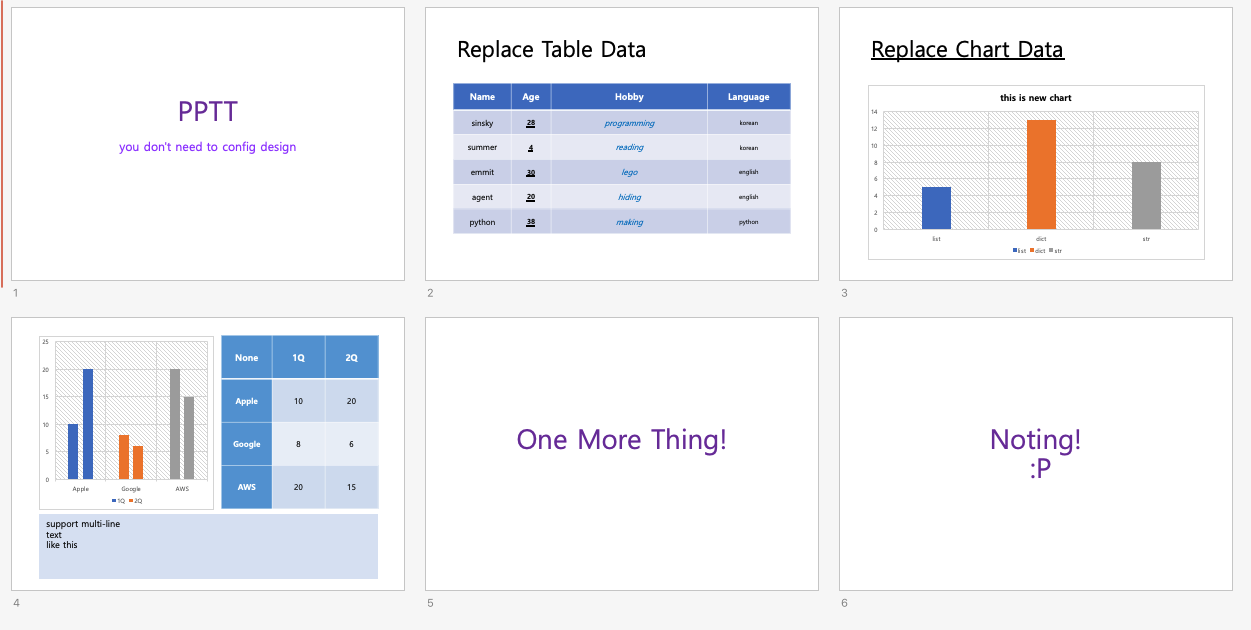
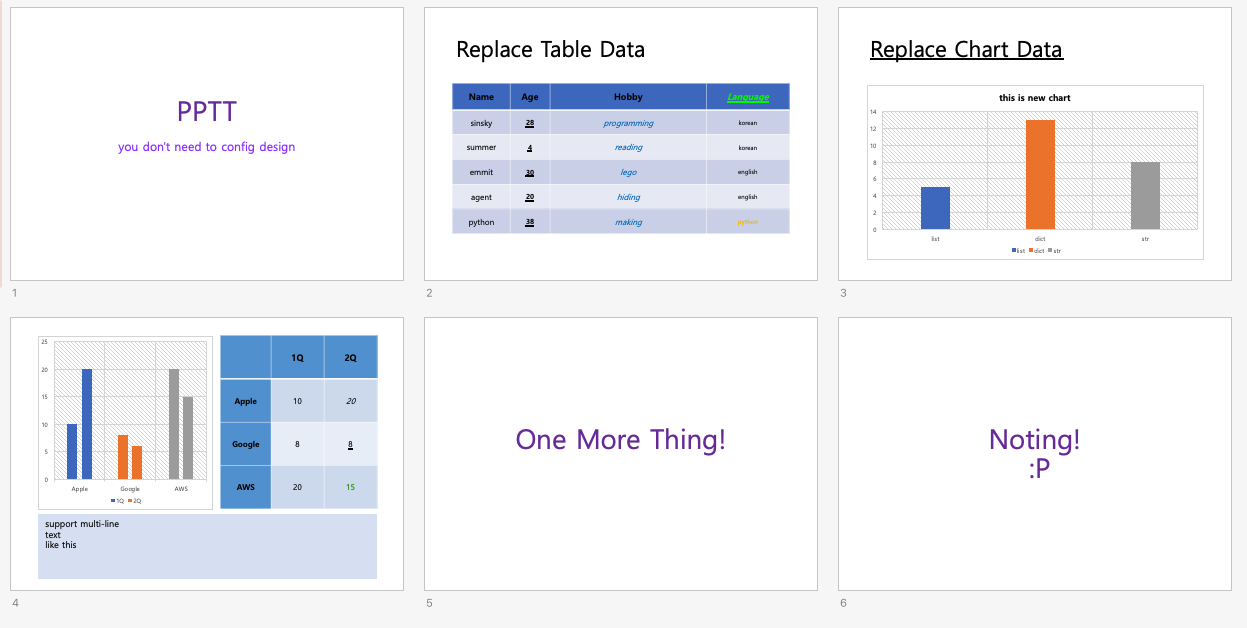
update version

diff --git a/src/PPTT/__init__.py b/src/PPTT/__init__.py
@@ -1,2 +1,2 @@
 
-__version__ = "0.0.5"
+__version__ = "0.0.6"

diff --git a/README.md b/README.md
@@ -45,13 +45,43 @@ create `slide.json` like this
         "table": {
           "table": {
             "data_type": "key_value",
-            "keys": ["Name", "Age", "Hobby", {"name": "Language", "data_key": "language"}],
+            "keys": [
+              "Name",
+              "Age",
+              {
+                "name": "Hobby",
+                "data_key": "hobby"
+              },
+              {
+                "name": {
+                  "value": "Language",
+                  "font": {
+                    "bold": true,
+                    "italic": true,
+                    "underline": true,
+                    "color": "#00F900"
+                  }
+                },
+                "data_key": "language"
+              }
+            ],
             "data": [
-              {"Name": "sinsky", "Age": 28, "Hobby": "programming", "language": "korean"},
-              {"Name": "summer", "Age": 4, "Hobby": "reading", "language": "korean"},
-              {"Name": "emmit", "Age": 30, "Hobby": "lego", "language": "english"},
-              {"Name": "agent", "Age": 20, "Hobby": "hiding", "language": "english"},
-              {"Name": "python", "Age": 38, "Hobby": "making", "language": "python"}
+              {"Name": "sinsky", "Age": 28, "hobby": "programming", "language": "korean"},
+              {"Name": "summer", "Age": 4, "hobby": "reading", "language": "korean"},
+              {"Name": "emmit", "Age": 30, "hobby": "lego", "language": "english"},
+              {"Name": "agent", "Age": 20, "hobby": "hiding", "language": "english"},
+              {
+                "Name": "python",
+                "Age": 38,
+                "hobby": "making",
+                "language": {
+                  "value": "python",
+                  "font": {
+                    "bold": true,
+                    "color": "#FFC107"
+                  }
+                }
+              }
             ]
           }
         }
@@ -85,11 +115,21 @@ create `slide.json` like this
           "table": {
             "data_type": "raw",
             "data": [
-              [null, "1Q", "2Q"],
-              ["Apple", 10, 20],
-              ["Google", 8, 6],
-              ["AWS", 20, 15]
+              [null, "1Q", {"value": "2Q", "font": {"bold": true}}],
+              ["Apple", 10, {"value": 20, "font": {"italic": true}}],
+              ["Google", 8, {"value": 8, "font": {"underline": true}}],
+              ["AWS", 20, {"value": 15, "font": {"color": "00F900"}}]
             ]
+          }
+        },
+        "chart": {
+          "chart": {
+            "data_type": "category_data",
+            "categories": ["Apple", "Google", "AWS"],
+            "series": {
+              "1Q": [10, 8, 20],
+              "2Q": [20, 6, 15]
+            }
           }
         }
       }
@@ -135,3 +175,6 @@ pptt make_ppt master.pptx clone.pptx -i slide.json
 - 0.0.5
     - Bug Fix
         - fix table replace data dose not reset issue
+- 0.0.6
+    - New Feature
+        - change text font style #10

diff --git a/example/simple_ppt/readme.md b/example/simple_ppt/readme.md
@@ -31,13 +31,43 @@ create `slide.json` like this
         "table": {
           "table": {
             "data_type": "key_value",
-            "keys": ["Name", "Age", "Hobby", {"name": "Language", "data_key": "language"}],
+            "keys": [
+              "Name",
+              "Age",
+              {
+                "name": "Hobby",
+                "data_key": "hobby"
+              },
+              {
+                "name": {
+                  "value": "Language",
+                  "font": {
+                    "bold": true,
+                    "italic": true,
+                    "underline": true,
+                    "color": "#00F900"
+                  }
+                },
+                "data_key": "language"
+              }
+            ],
             "data": [
-              {"Name": "sinsky", "Age": 28, "Hobby": "programming", "language": "korean"},
-              {"Name": "summer", "Age": 4, "Hobby": "reading", "language": "korean"},
-              {"Name": "emmit", "Age": 30, "Hobby": "lego", "language": "english"},
-              {"Name": "agent", "Age": 20, "Hobby": "hiding", "language": "english"},
-              {"Name": "python", "Age": 38, "Hobby": "making", "language": "python"}
+              {"Name": "sinsky", "Age": 28, "hobby": "programming", "language": "korean"},
+              {"Name": "summer", "Age": 4, "hobby": "reading", "language": "korean"},
+              {"Name": "emmit", "Age": 30, "hobby": "lego", "language": "english"},
+              {"Name": "agent", "Age": 20, "hobby": "hiding", "language": "english"},
+              {
+                "Name": "python",
+                "Age": 38,
+                "hobby": "making",
+                "language": {
+                  "value": "python",
+                  "font": {
+                    "bold": true,
+                    "color": "#FFC107"
+                  }
+                }
+              }
             ]
           }
         }
@@ -71,17 +101,28 @@ create `slide.json` like this
           "table": {
             "data_type": "raw",
             "data": [
-              [null, "1Q", "2Q"],
-              ["Apple", 10, 20],
-              ["Google", 8, 6],
-              ["AWS", 20, 15]
+              [null, "1Q", {"value": "2Q", "font": {"bold": true}}],
+              ["Apple", 10, {"value": 20, "font": {"italic": true}}],
+              ["Google", 8, {"value": 8, "font": {"underline": true}}],
+              ["AWS", 20, {"value": 15, "font": {"color": "00F900"}}]
             ]
+          }
+        },
+        "chart": {
+          "chart": {
+            "data_type": "category_data",
+            "categories": ["Apple", "Google", "AWS"],
+            "series": {
+              "1Q": [10, 8, 20],
+              "2Q": [20, 6, 15]
+            }
           }
         }
       }
     }
   ]
 }
+
 ```
 
 ## make ppt!
